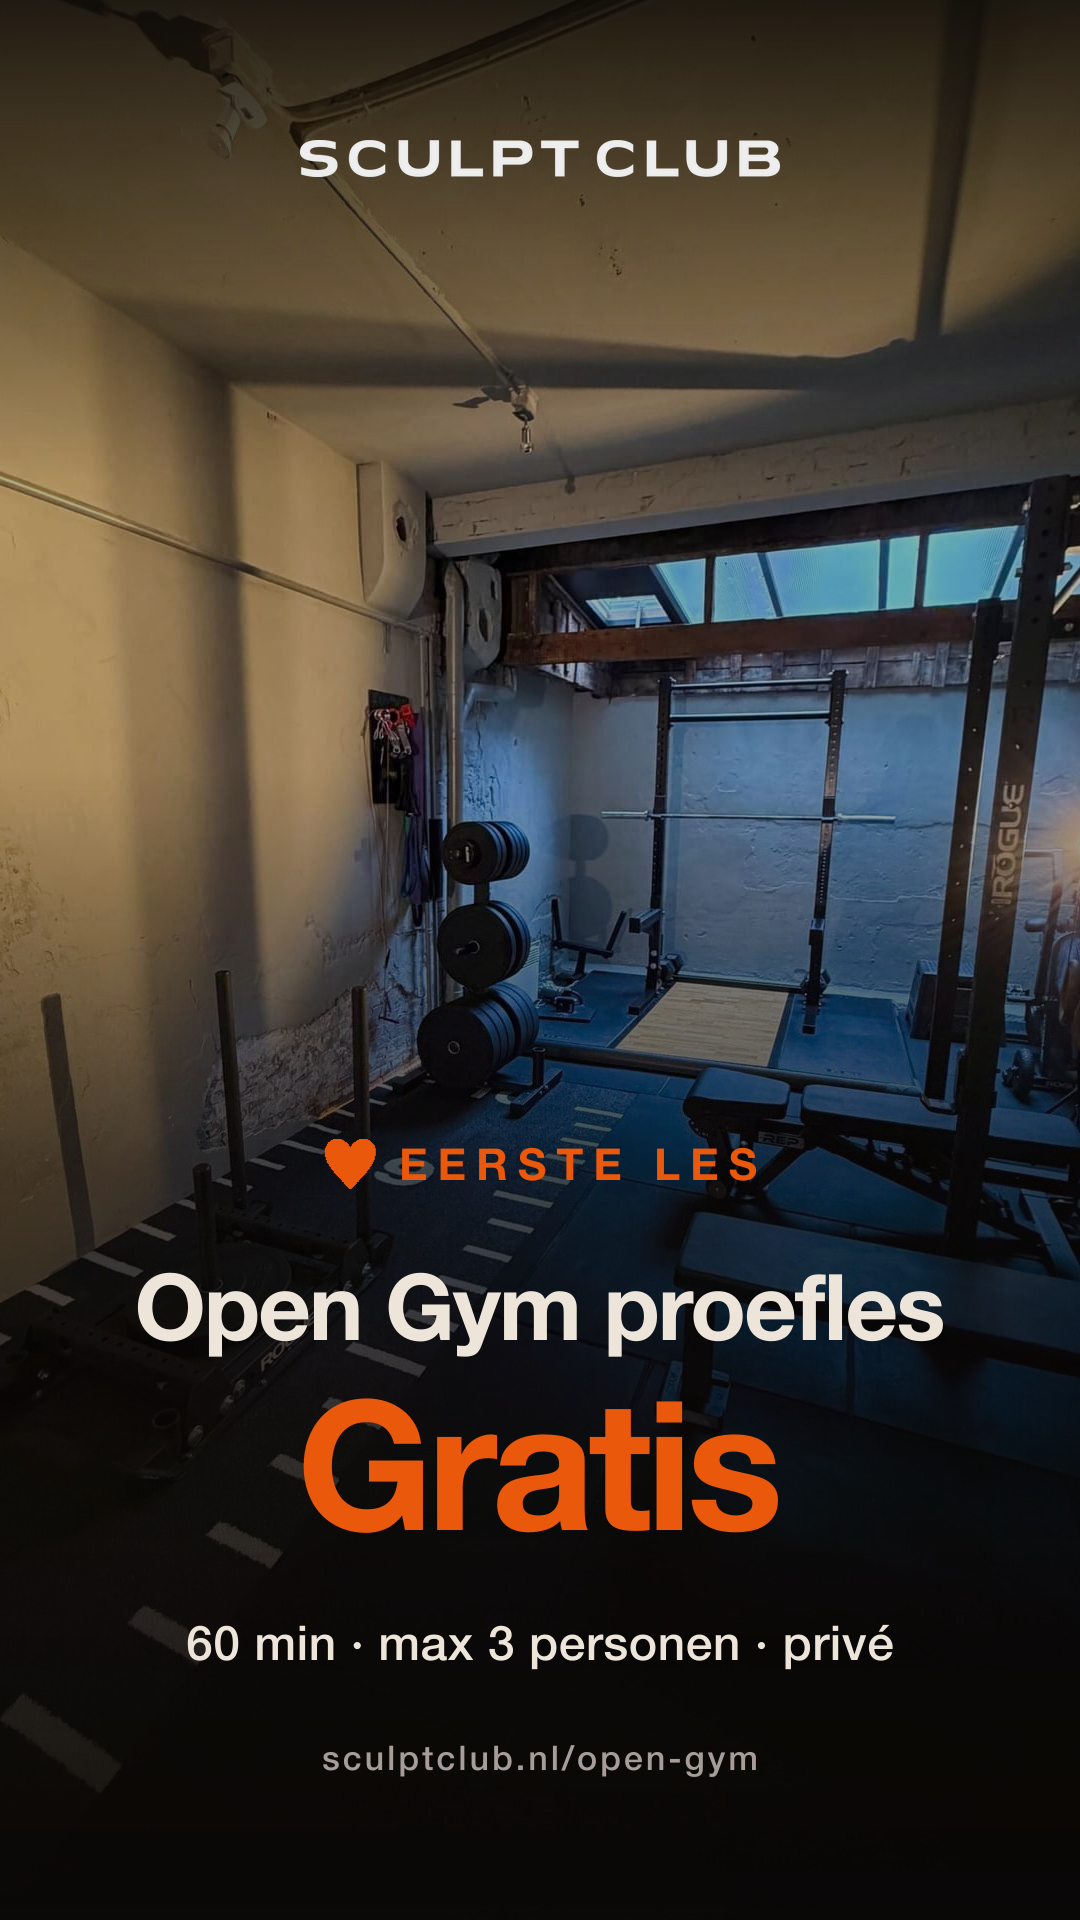
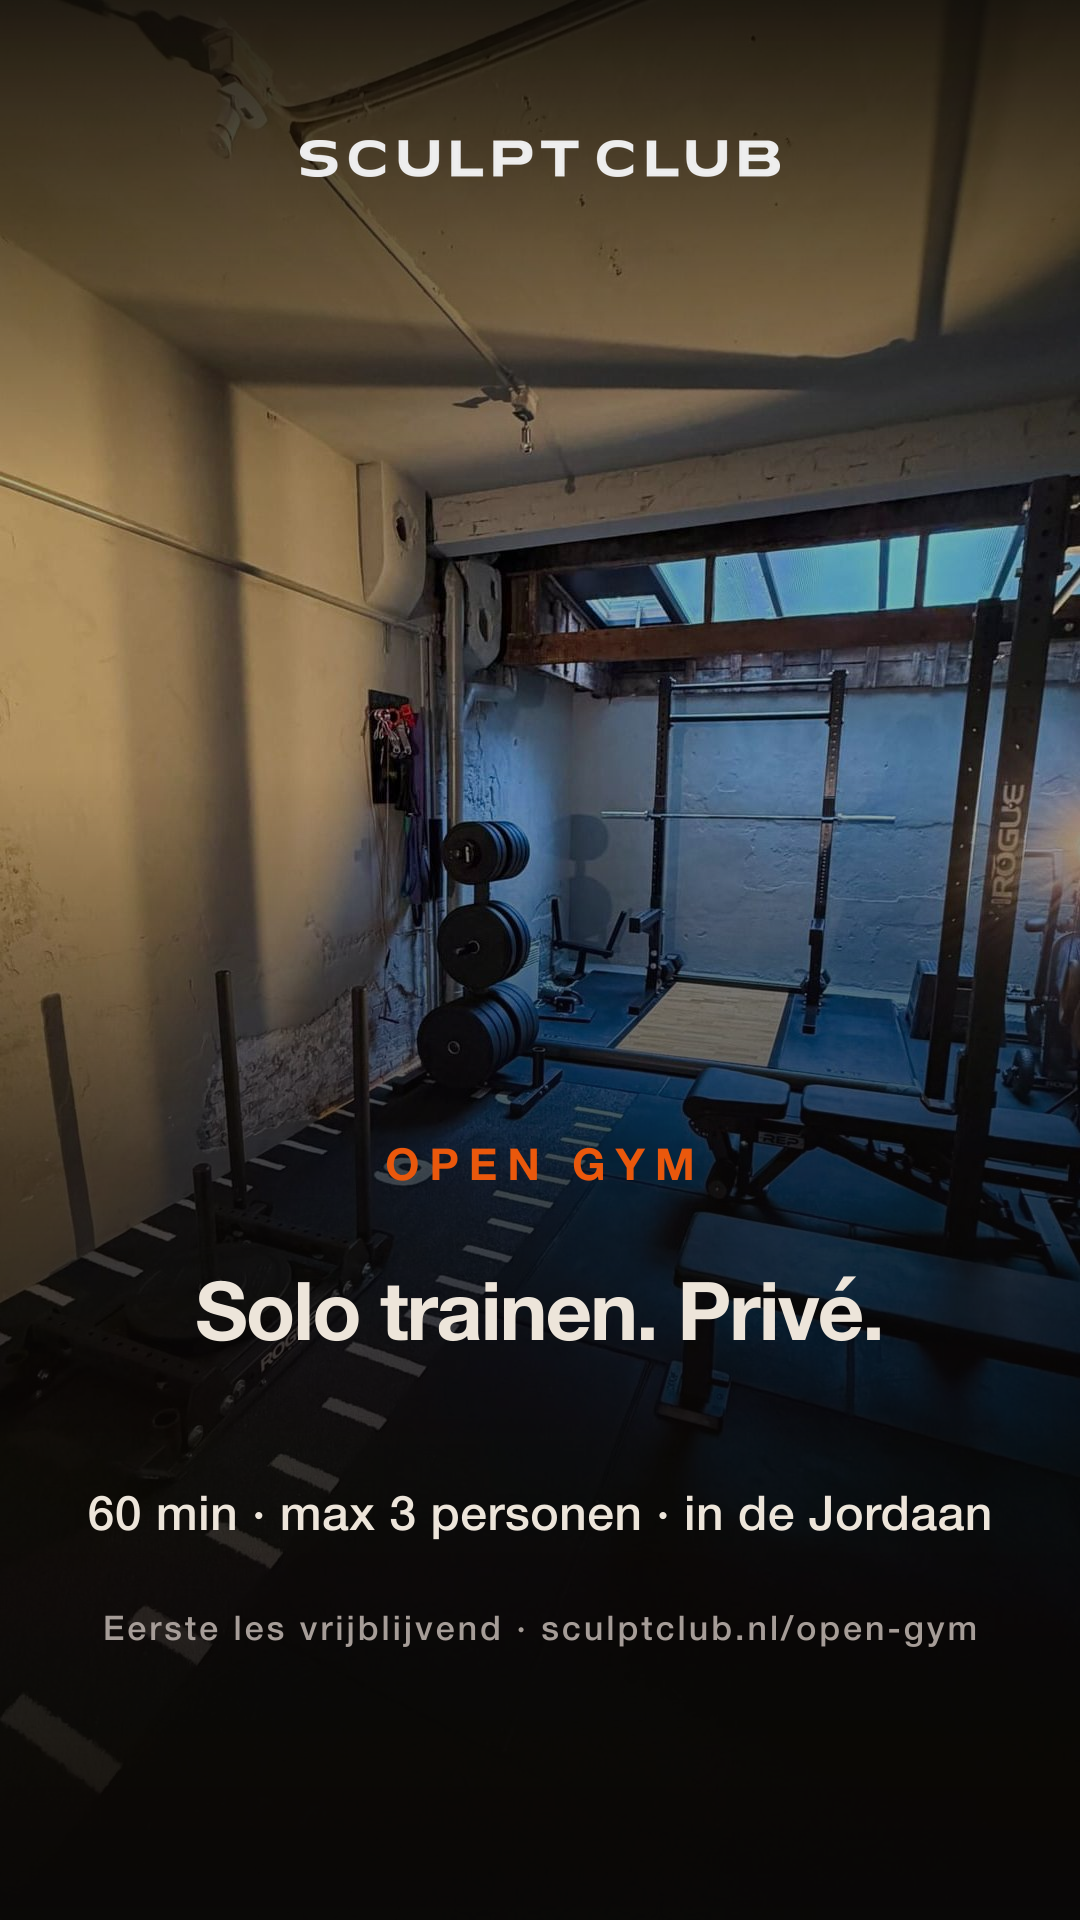
refactor(social): premium register for intake + open-gym pitches
Operator feedback: "huge GRATIS in posts looks like ads, we should look
premium". Correct diagnosis. Equinox/Barry's-tier brands never lead with
FREE in 180px orange — that's Black Friday flyer register, not boutique-
Jordaan-studio register. The studio rental at €12/uur stays loud (real
competitive price for trainer audience), but the consumer-facing posts
get a register shift.

Build script change (scripts/build-tiktok-post.mjs):
- `price` field now supports empty string → skip the 180px-orange focal slot
- When skipped, usp+cta vertical positions shift up ~130px so the
  composition doesn't have a dead-air gap
- Trainer-pitch-001 unaffected — still renders €12/uur at 180px focal
  (regression-tested, 6 images regenerated identically)

intake-pitch-001 v2 (premium register):
  Slide 1 — eyebrow "PERSONAL TRAINING" · hero "Privé. 1-op-1." · usp
           "Eerste sessie vrijblijvend · 45 minuten" · cta "Plan je gratis
           intake · sculptclub.nl"
  Slide 2 — eyebrow "8 TRAINERS · 5.0 ★ GOOGLE" (social proof = eyebrow
           positioning, not 180px shout) · hero "Test eerst. Beslis dan."
           (unchanged — already premium-toned) · usp specialties · cta
           "Geen contract · sculptclub.nl/gratis-intake"
  Slide 3 — eyebrow "SCULPT CLUB · JORDAAN" · hero "Egelantiersgracht 424"
           (address IS the value prop — gracht location carries premium
           weight by adjacency) · usp hours · cta "Plan je gratis intake"
[…]

diff --git a/public/social/intake-pitch-001/index.html b/public/social/intake-pitch-001/index.html
@@ -250,15 +250,15 @@
 <body>
 
   <div class="pill">Social Post Pack</div>
-  <h1>Eerste Intake Gratis</h1>
-  <p class="subtitle">Consumer-acquisition post · 3 slides · klaar om te plaatsen op TikTok of Instagram.</p>
+  <h1>Personal Training Intake</h1>
+  <p class="subtitle">Consumer-acquisition post · premium register · 3 slides · klaar om te plaatsen op TikTok of Instagram.</p>
 
   <div class="post-header">
     <p class="post-name">📌 intake-pitch-001</p>
     <div class="post-meta">
       <span><strong>Datum:</strong> 18 mei 2026</span>
-      <span><strong>Doel:</strong> Consumer-acquisitie · gratis intake</span>
-      <span><strong>Versie:</strong> v1</span>
+      <span><strong>Doel:</strong> Consumer-acquisitie · plan je gratis intake</span>
+      <span><strong>Versie:</strong> v2 (premium)</span>
     </div>
   </div>
 
@@ -362,17 +362,23 @@
 //
 // CTA destination: sculptclub.nl/gratis-intake (the existing paid-Google-Ads landing
 // — instrumented with conversion events, mobile-perfect verified 2026-05-17).
+// v2 (2026-05-18) — premium register rewrite. Removed:
+//   - 🧡 emoji-hook from title (premium boutique brands don't lead with emoji)
+//   - Multi-instance "gratis" word-shouts (read as Black Friday flyer)
+//   - "GEEN VERPLICHTING" all-caps (replaced by elevated "vrijblijvend")
+// Word "gratis" appears once in the established offer name "gratis intake"
+// — informational + matches the URL slug, not shouty.
 const COPY = {
   tiktok: {
-    title: "🧡 45 min gratis Personal Training in de Jordaan",
-    description: "Probeer 1-op-1 PT in onze privé studio aan de Egelantiersgracht.\n\n45 min · gratis · geen verplichting · 8 trainers om uit te kiezen.\n\nPlan je intake → sculptclub.nl/gratis-intake",
+    title: "Personal Training in de Jordaan · privé studio · 1-op-1",
+    description: "Een eerste sessie met je personal trainer in onze privé studio aan de Egelantiersgracht.\n\n45 minuten · vrijblijvend · 8 trainers · 5.0 ★ Google.\n\nPlan je gratis intake → sculptclub.nl/gratis-intake",
     hashtags: "#personaltrainingamsterdam #amsterdamgym #jordaan #pt #fitamsterdam"
   },
   instagram: {
     // IG caption convention: URLs aren't clickable in captions → use 'link in bio' instead.
     // Operator should set IG bio link to sculptclub.nl/gratis-intake for the duration of
     // this campaign so the bio tap routes to the consumer-intake landing.
-    caption: "Probeer 1-op-1 Personal Training in onze privé studio aan de Egelantiersgracht — 45 min, gratis, geen verplichting 🧡\n\n8 trainers · 5.0 ★ Google · Jordaan.\n\nPlan je intake · link in bio 👆",
+    caption: "Een eerste sessie 1-op-1 met je personal trainer in onze privé studio aan de Egelantiersgracht.\n\n45 minuten · vrijblijvend · 8 trainers · 5.0 ★ Google · Jordaan.\n\nPlan je gratis intake · link in bio 👆",
     hashtags: "#personaltrainingamsterdam #amsterdamgym #jordaan #pt #fitamsterdam"
   }
 };
@@ -423,9 +429,9 @@ function renderCopySection(platform) {
 // ─── Slide rendering ───
 // Slide names match the keys in scripts/build-tiktok-post.mjs POSTS["intake-pitch-001"].
 const slidesData = [
-  { name: "main-offer",  label: "1", title: "Hook · 1-op-1 PT · 100% gratis" },
-  { name: "no-pressure", label: "2", title: "Geen verplichting · 8 trainers" },
-  { name: "location",    label: "3", title: "Locatie · Jordaan · Gratis" }
+  { name: "main-offer",  label: "1", title: "Privé · 1-op-1 · 45 min" },
+  { name: "no-pressure", label: "2", title: "Test eerst, beslis dan · 8 trainers" },
+  { name: "location",    label: "3", title: "Egelantiersgracht 424 · Jordaan" }
 ];
 
 function switchPlatform(platform) {

diff --git a/public/social/open-gym-pitch-001/index.html b/public/social/open-gym-pitch-001/index.html
@@ -82,15 +82,15 @@
 <body>
 
   <div class="pill">Social Post Pack</div>
-  <h1>Open Gym Proefles Gratis</h1>
-  <p class="subtitle">Open Gym entry-product post · 3 slides · klaar om te plaatsen op TikTok of Instagram.</p>
+  <h1>Open Gym · Privé Studio</h1>
+  <p class="subtitle">Open Gym entry-product post · premium register · 3 slides · klaar om te plaatsen op TikTok of Instagram.</p>
 
   <div class="post-header">
     <p class="post-name">📌 open-gym-pitch-001</p>
     <div class="post-meta">
       <span><strong>Datum:</strong> 18 mei 2026</span>
-      <span><strong>Doel:</strong> Open Gym-acquisitie · gratis proefles</span>
-      <span><strong>Versie:</strong> v1</span>
+      <span><strong>Doel:</strong> Open Gym-acquisitie · boek je proefles</span>
+      <span><strong>Versie:</strong> v2 (premium)</span>
     </div>
   </div>
 
@@ -176,14 +176,18 @@
 // Open Gym = entry product. CTA destination: sculptclub.nl/open-gym
 // (existing page with "Gratis proefles boeken" + "Al lid? Reserveer jouw uur"
 // CTAs above the fold — mobile-perfect verified via Playwright 2026-05-17).
+// v2 (2026-05-18) — premium register rewrite. Same rationale as intake-pitch v2:
+// dropped 🧡 emoji-hook + "Gratis" word-shouts. Word "gratis" removed entirely
+// (Open Gym calls the trial "eerste les vrijblijvend"); the actual price €7,25
+// stays prominent because real prices are info, not shouts.
 const COPY = {
   tiktok: {
-    title: "🧡 Gratis Open Gym proefles in onze privé studio (Jordaan)",
-    description: "Train 60 min solo in onze privé studio aan de Egelantiersgracht.\n\nEerste les gratis · max 3 personen per slot · daarna vanaf €7,25 per sessie · geen contract.\n\nBoek je proefles → sculptclub.nl/open-gym",
+    title: "Open Gym · privé studio in de Jordaan · solo trainen 60 minuten",
+    description: "Boek je eerste les Open Gym in onze privé studio aan de Egelantiersgracht.\n\n60 minuten solo trainen · max 3 personen per slot · vrijblijvend · vanaf €7,25 per sessie · geen contract.\n\nsculptclub.nl/open-gym",
     hashtags: "#opengym #amsterdamgym #privegym #jordaan #fitamsterdam"
   },
   instagram: {
-    caption: "Gratis Open Gym proefles in onze privé studio aan de Egelantiersgracht 🧡\n\n60 min · max 3 personen per slot · daarna vanaf €7,25 per sessie · geen contract.\n\nBoek je proefles · link in bio 👆",
+    caption: "Open Gym in onze privé studio aan de Egelantiersgracht.\n\n60 minuten solo trainen · max 3 personen per slot · eerste les vrijblijvend · vanaf €7,25 per sessie · geen contract.\n\nBoek je proefles · link in bio 👆",
     hashtags: "#opengym #amsterdamgym #privegym #jordaan #fitamsterdam"
   }
 };
@@ -229,9 +233,9 @@ function renderCopySection(platform) {
 }
 
 const slidesData = [
-  { name: "main-offer",      label: "1", title: "Hook · Open Gym proefles · Gratis" },
-  { name: "price-substance", label: "2", title: "Prijs · Vanaf €7,25 / sessie" },
-  { name: "location",        label: "3", title: "Locatie · Jordaan · 06:30 – 22:00" }
+  { name: "main-offer",      label: "1", title: "Solo trainen · privé · 60 min" },
+  { name: "price-substance", label: "2", title: "Vanaf €7,25 / sessie" },
+  { name: "location",        label: "3", title: "Egelantiersgracht 424 · Jordaan" }
 ];
 
 function switchPlatform(platform) {

diff --git a/public/social/index.html b/public/social/index.html
@@ -54,24 +54,24 @@
   <h1>SculptClub Content Hub</h1>
   <p class="subtitle">Alle social posts · klaar om te plaatsen op TikTok of Instagram. Tap een post voor download + caption + hashtags.</p>
 
-  <!-- POST 3: Open Gym pitch (entry-product acquisition — shipped 2026-05-18) -->
+  <!-- POST 3: Open Gym pitch (entry-product acquisition — v2 premium 2026-05-18) -->
   <a href="/social/open-gym-pitch-001/" class="post-card">
-    <p class="post-name">Open Gym Proefles · Gratis</p>
+    <p class="post-name">Open Gym · Privé Studio</p>
     <div class="post-meta">
       <span><strong>ID:</strong> open-gym-pitch-001</span>
-      <span><strong>Datum:</strong> 18 mei 2026</span>
+      <span><strong>Datum:</strong> 18 mei 2026 · v2 premium</span>
       <span><strong>Slides:</strong> 3</span>
       <span><strong>Doel:</strong> Open Gym entry-acquisitie</span>
     </div>
     <span class="post-status status-ready">Klaar om te plaatsen</span>
   </a>
 
-  <!-- POST 2: Intake pitch (consumer PT acquisition — shipped 2026-05-18) -->
+  <!-- POST 2: Intake pitch (consumer PT acquisition — v2 premium 2026-05-18) -->
   <a href="/social/intake-pitch-001/" class="post-card">
-    <p class="post-name">Eerste Intake Gratis · 1-op-1 PT</p>
+    <p class="post-name">Personal Training Intake · Privé</p>
     <div class="post-meta">
       <span><strong>ID:</strong> intake-pitch-001</span>
-      <span><strong>Datum:</strong> 18 mei 2026</span>
+      <span><strong>Datum:</strong> 18 mei 2026 · v2 premium</span>
       <span><strong>Slides:</strong> 3</span>
       <span><strong>Doel:</strong> Consumer-PT acquisitie</span>
     </div>
